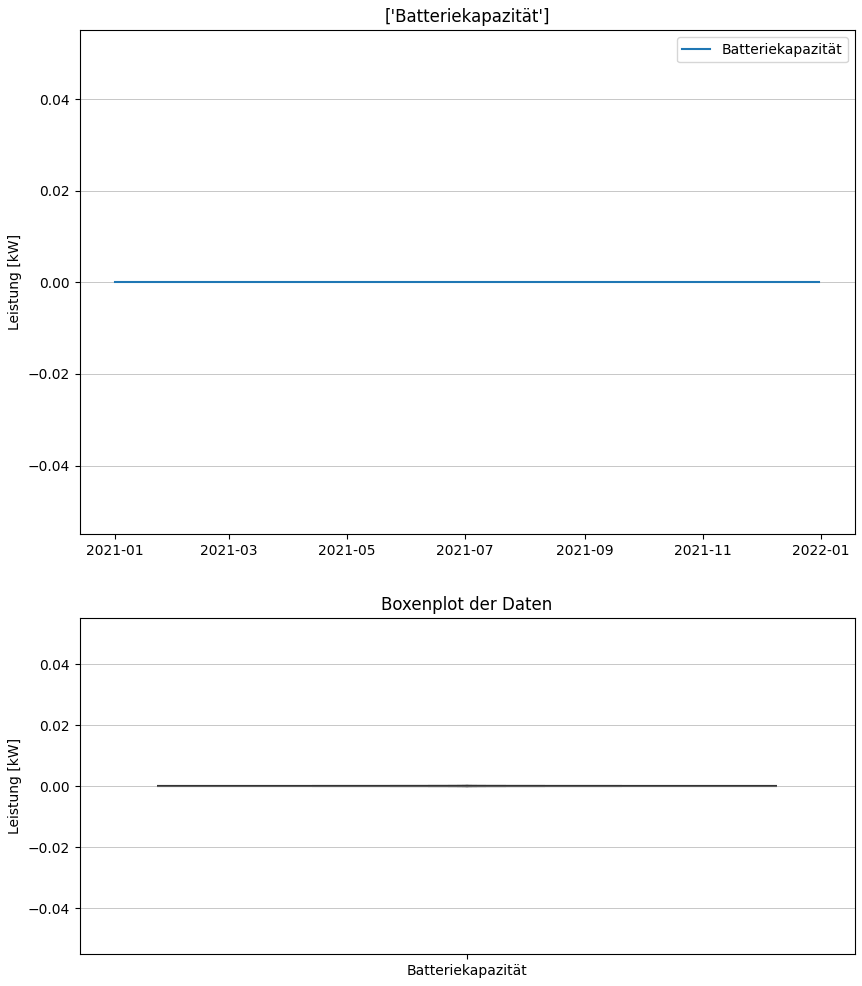
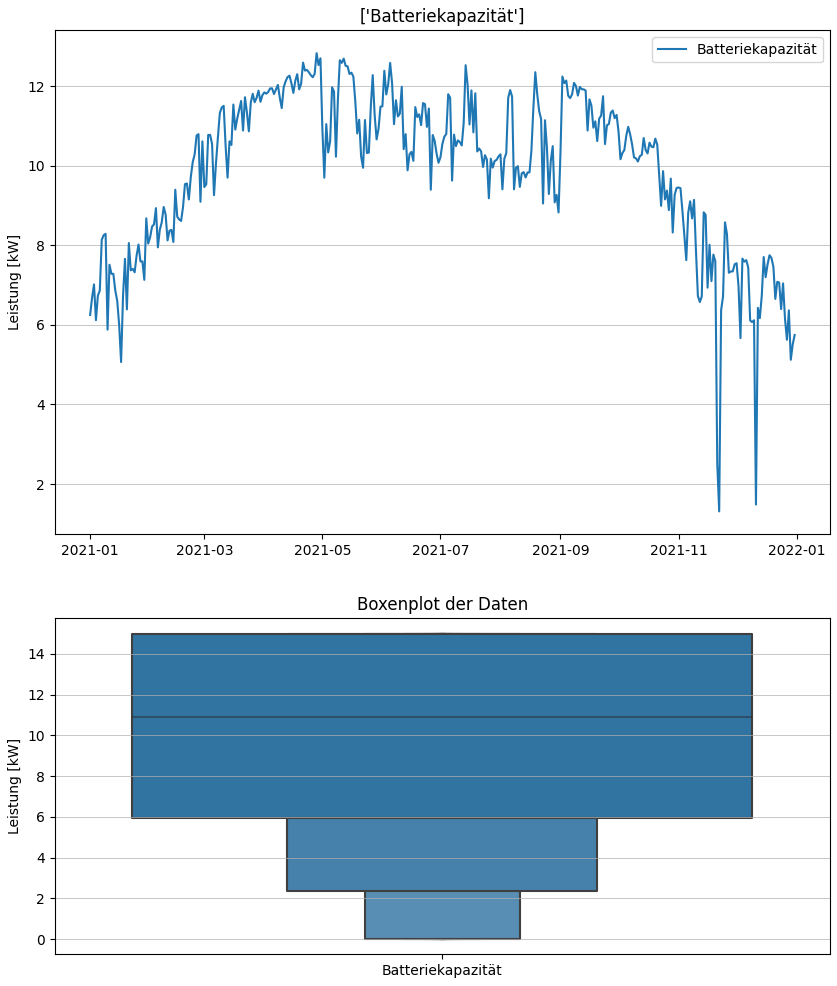
Update

diff --git a/EIMS_Opt/Sim_Marius_Cermak.py b/EIMS_Opt/Sim_Marius_Cermak.py
@@ -48,13 +48,12 @@ class cla_Batterie():
     def Entladen(self,arg_Reslast):
         #self.Leistung ist der Teil der anschließend von der Reslast abgezogen wird
         
-
-        if arg_Reslast > self.Leistung_MAX:
-            #Wenn ja wird gekappt
-            self.Verlust = self.Leistung_MAX * (1-self.Effizienz)
-            self.Leistung = self.Leistung_MAX * self.Effizienz 
+        var_ResLast_mit_Verlust = arg_Reslast + (arg_Reslast*(1-self.Effizienz))
+        if var_ResLast_mit_Verlust < self.Leistung_MAX and var_ResLast_mit_Verlust < self.Kapazität:
+            #Kann die Residuallast + Verlust gedeckt werden?
+            self.Verlust = arg_Reslast * (1-self.Effizienz)  
+            self.Leistung = arg_Reslast# - self.Verlust
         else:
-            #Wenn nein, g2g
             self.Verlust = arg_Reslast * (1-self.Effizienz) 
             self.Leistung = arg_Reslast 
 
@@ -71,7 +70,6 @@ class cla_Batterie():
         return arg_Reslast
     
     def Laden(self,arg_Reslast):
-
         if arg_Reslast > self.Leistung_MAX:
             #Wenn ja wird gekappt
             self.Verlust = self.Leistung_MAX * (1-self.Effizienz)
@@ -132,7 +130,6 @@ class cla_Costs():
         self.Life = 10 #Years
         self.Investment_costs = self.PV_kWp * self.PV_cost + self.Bat_kWh * self.battery_cost
         self.Operation_costs = self.Get_Operationcosts(obj_Datatracker)
-        self.cashflow = self.Get_Vergütung(obj_Datatracker)
         self.total_costs = self.Get_Costs()
 
 
@@ -143,8 +140,7 @@ class cla_Costs():
     def Get_Operationcosts(self, obj_Datatracker):
          return sum(obj_Datatracker.Netzbezug) * self.price_grid - sum(obj_Datatracker.Netzeinspeisung) * self.price_feed_in
 
-    def Get_Vergütung(self, obj_Datatracker):
-         return (sum(obj_Datatracker.Netzeinspeisung) * self.price_feed_in + sum(obj_Datatracker.PV_Direktverbrauch) * self.price_grid)
+
 
 
 
@@ -175,17 +171,13 @@ class cla_Plotting():
         plt.savefig("./Bilder/"+str_toSave+"", bbox_inches = 'tight',pad_inches = 0.08)
         
     def Break_Even_Plot(self,obj_Costs,str_toSave): 
+        return
         fig, ax = plt.subplots(figsize=(12,8))
         
         
         df_Plot = pd.DataFrame()
-        li_kosten = []
-        li_vergütung = []
-        for i in range(1, obj_Costs.Life + 2):
-            li_kosten.append(obj_Costs.Investment_costs + obj_Costs.Operation_costs * i)
-            li_vergütung.append(obj_Costs.cashflow * i)
-        df_Plot["Kosten"] = li_kosten
-        df_Plot["Vergütung"] = li_vergütung
+        df_Plot["Kosten"] = obj_Costs.LifeCosts
+        df_Plot["Vergütung"] = obj_Costs.LifeRevenue
         df_Plot["Cashflow"] = df_Plot["Kosten"] - df_Plot["Vergütung"]
         
         sns.lineplot(data = df_Plot, ax = ax, palette = ["red","green","blue"], linewidth = 2,marker='o')
@@ -291,10 +283,6 @@ class Model():
         if abs(Test) > 0.0000001:
             raise ValueError("ENERGIEBILANZ STIMMT NICHT!")
 
-
-        # calculate cost [€/life cycle]
-        obj_Costs = cla_Costs(obj_Datatracker,price_grid)
-
         # plot your results:
         if plotting == True:
 
@@ -304,7 +292,7 @@ class Model():
             obj_Plotter.Lineplot_Leistung(li_toPLot = ["Batteriekapazität"],str_toSave = "Bat_Kapazität")
             obj_Plotter.Lineplot_Leistung(li_toPLot = ["PV_Direktverbrauch"],str_toSave = "PV_Direktverbrauch")
             obj_Plotter.Lineplot_Leistung(li_toPLot = ["Netzeinspeisung","Netzbezug"],str_toSave = "Netz_IO")
-            obj_Plotter.Break_Even_Plot(obj_Costs, "Cashflow")
+
 
         # calc Primary Energy
         obj_Gebäude.Prim_Gesamt = (sum(obj_Datatracker.Netzbezug) * obj_Gebäude.Prim_Factor - sum(obj_Datatracker.Netzeinspeisung)) / obj_Gebäude.BGF
@@ -312,8 +300,12 @@ class Model():
         # calc CO2 
         obj_Gebäude.CO2_Gesamt = ((sum(obj_Datatracker.Netzbezug) * obj_Gebäude.CO2 - sum(obj_Datatracker.Netzeinspeisung) * obj_Gebäude.CO2) / 1000) / obj_Gebäude.BGF
 
+        # calculate cost [€/life cycle]
+        obj_Costs = cla_Costs(obj_Datatracker,price_grid)
+        #obj_Plotter.Break_Even_Plot(obj_Costs,str_toSave = "Cashflow")
+        # investment cost [€/life cycle]
     
-
+        # operational cost [€/life cycle]
         result = {
             "Gesamtkosten" : obj_Costs.total_costs,
             "Investmentkosten" : obj_Costs.Investment_costs,
@@ -342,10 +334,10 @@ class Model():
 def main():
     #this should work
     model = Model()
-    result = model.Simulate(var_BGF=200, var_PV_kWP = 100, var_battery_kWh = 15, verbose = False, plotting = True)
+    result = model.Simulate(var_BGF=1000, var_PV_kWP = 50, var_battery_kWh = 50, verbose = False, plotting = True)
     print(f"Gesamtkosten: {result['Gesamtkosten']:.2f} €")
     print(f"Investmentkosten: {result['Investmentkosten']:.2f} €")
-    print(f"Operationskosten: {result['Operationskosten']:.2f} €")
+    print(f"Operationskosten: {result['Operationskosten']:.2f}")
     print(f"Emissionen: {result['Emissionen']:.2f} kgCO2/m²a")
     print(f"Primärenergie: {result['Primärenergie']:.2f} kWh/m²a")
     print(f"Netzeinspeisung: {result['Netzeinspeisung']:.2f} kWh")
